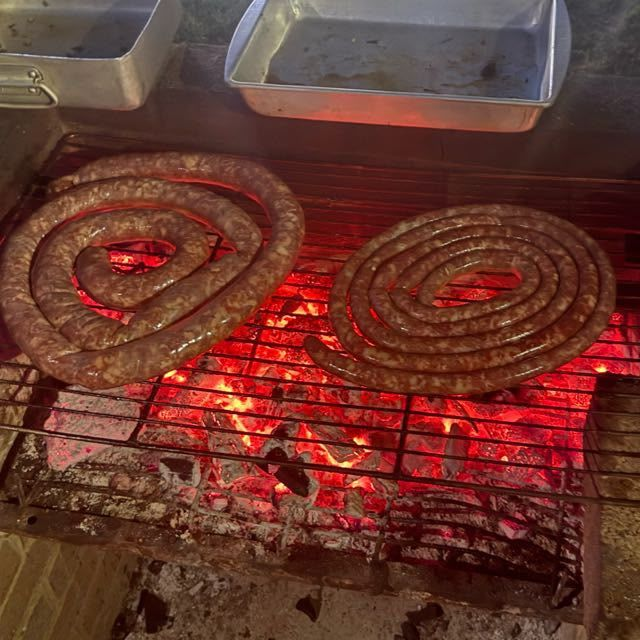
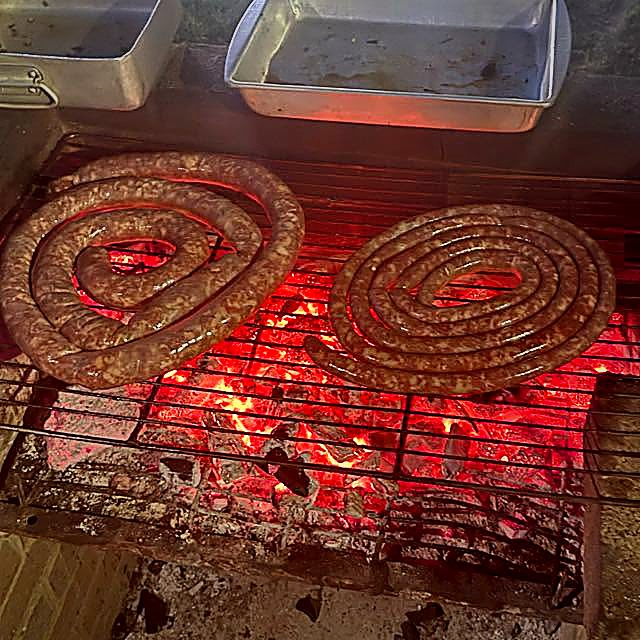
Colour-grade and sharpen photos; tighten table shot
Claude-Session: https://claude.ai/code/session_01F3DXneg2pYG3SMTxsZFwzM

diff --git a/index.html b/index.html
@@ -200,7 +200,7 @@ input[type=text] { width: 100%; font: inherit; color: var(--ink); background: va
     <h2>From our kitchen</h2>
     <div class="gal">
       <img src="img/raw-boxes.jpg" width="800" height="1067" loading="lazy" alt="Fresh boerewors coiled in two tubs, ready to freeze">
-      <img src="img/raw-table.jpg" width="800" height="1067" loading="lazy" alt="A big coil of fresh boerewors in natural casing">
+      <img src="img/raw-table.jpg" width="640" height="853" loading="lazy" alt="A big coil of fresh boerewors in natural casing">
     </div>
   </section>
 
